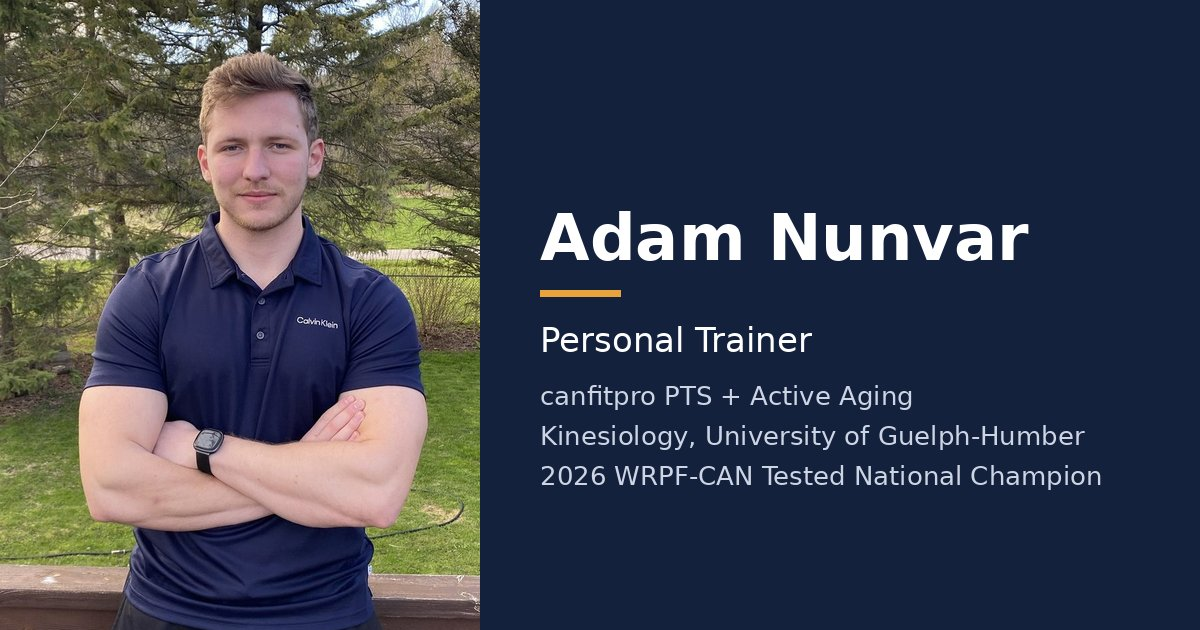
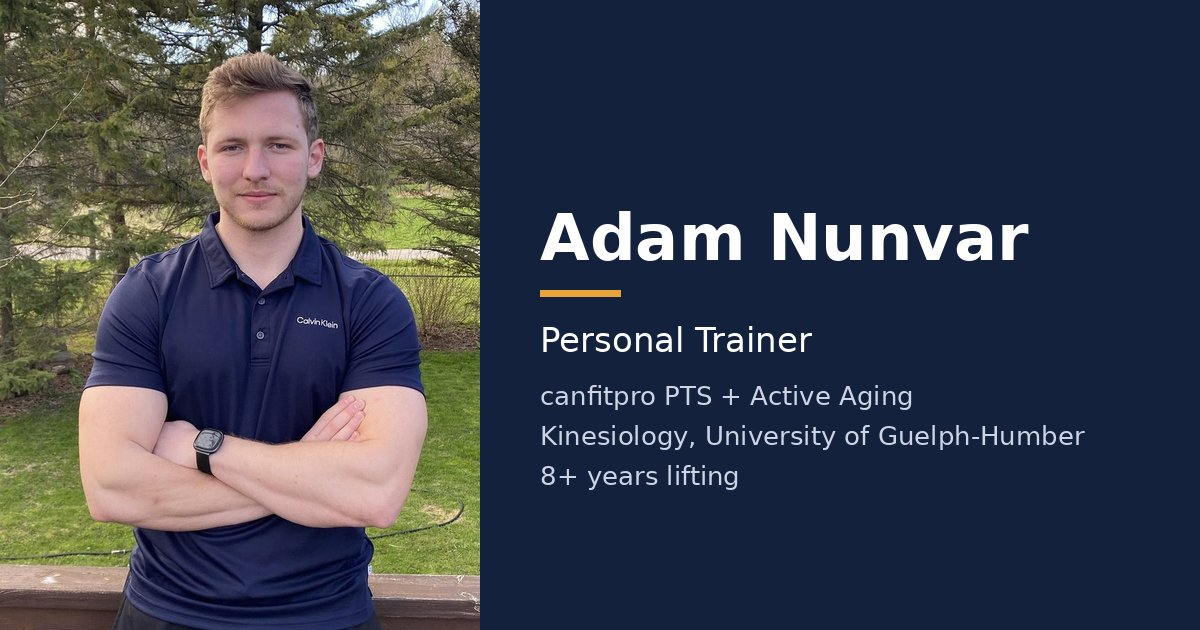
Reframe copy as general personal training; correct lifting history
Lifting 8+ years, powerlifting 2 years. Align 60+ wording.

Claude-Session: https://claude.ai/code/session_01MWZP85Evv5tXJorN7ntLco

Changed region(s): [[0.4317, 0.7238, 0.925, 0.7841]]

diff --git a/index.html b/index.html
@@ -4,12 +4,12 @@
 <meta charset="utf-8">
 <meta name="viewport" content="width=device-width, initial-scale=1">
 <title>Adam Nunvar | Personal Trainer, Etobicoke, Ontario</title>
-<meta name="description" content="Adam Nunvar: canfitpro-certified personal trainer, fourth-year kinesiology student and 2026 WRPF-CAN Tested national powerlifting champion. Resume, credentials, experience and contact.">
+<meta name="description" content="Adam Nunvar: canfitpro-certified personal trainer and fourth-year kinesiology student coaching everyone from first-time gym-goers to adults over 60. Resume, credentials, experience and contact.">
 <link rel="canonical" href="https://adamnunvar.ca/">
 <meta property="og:type" content="website">
 <meta property="og:url" content="https://adamnunvar.ca/">
 <meta property="og:title" content="Adam Nunvar | Personal Trainer">
-<meta property="og:description" content="canfitpro personal trainer, kinesiology student and 2026 WRPF-CAN Tested national powerlifting champion.">
+<meta property="og:description" content="canfitpro-certified personal trainer and kinesiology student. Resume, credentials, experience and contact.">
 <meta property="og:image" content="https://adamnunvar.ca/og.jpg">
 <meta property="og:image:width" content="1200">
 <meta property="og:image:height" content="630">
@@ -106,7 +106,7 @@ footer.site{padding:1.5rem 0 2.5rem;color:var(--muted);font-size:.9rem;border-to
         <img class="photo" src="/adam-nunvar-480.jpg" width="480" height="600" alt="Adam Nunvar, arms crossed, wearing a navy polo">
       </picture>
       <div class="rest">
-    <p class="pitch">Competitive powerlifter and kinesiology student coaching safe, progressive strength training, from first-time gym-goers to adults over 60.</p>
+    <p class="pitch">Kinesiology student and canfitpro-certified trainer helping people build muscle, get stronger and move better, from first-time gym-goers to adults over 60.</p>
     <p class="where">Etobicoke, Ontario</p>
     <div class="btns">
       <a class="btn btn-main" href="/Adam-Nunvar-Resume.pdf" download>Download resume</a>
@@ -115,7 +115,7 @@ footer.site{padding:1.5rem 0 2.5rem;color:var(--muted);font-size:.9rem;border-to
       </div>
     </div>
     <ul class="proof" aria-label="Highlights">
-      <li><strong>National Champion</strong>2026 WRPF-CAN Tested, 90 kg</li>
+      <li><strong>8+ years lifting</strong>2026 national powerlifting champion</li>
       <li><strong>canfitpro certified</strong>PTS + Active Aging</li>
       <li><strong>96% attendance</strong>across 96 one-on-one sessions</li>
       <li><strong>93.71% average</strong>in kinesiology</li>
@@ -127,8 +127,8 @@ footer.site{padding:1.5rem 0 2.5rem;color:var(--muted);font-size:.9rem;border-to
 <section id="about">
   <div class="wrap">
     <h2>About</h2>
-    <p>I'm a fourth-year kinesiology student at the University of Guelph-Humber and a canfitpro Personal Training Specialist. I train one-on-one clients and lead bootcamp, Hyrox and functional classes at Humber Athletics. I've also coached at 9Round Fitness, assisted with exercise rehab at a physiotherapy clinic, and run strength classes for adults 60+.</p>
-    <p>I've been powerlifting for 8 years and won the 2026 WRPF-CAN Tested national title at 90 kg, so I know what it takes to get strong, and how to coach it safely. I speak English and Czech.</p>
+    <p>I'm a fourth-year kinesiology student at the University of Guelph-Humber and a canfitpro Personal Training Specialist. I train one-on-one clients and lead bootcamp, Hyrox and functional classes at Humber Athletics. I've also coached at 9Round Fitness, assisted with exercise rehab at a physiotherapy clinic, and run functional fitness classes for adults 60+.</p>
+    <p>I've been lifting for over 8 years, and I use what I learn in anatomy, physiology and biomechanics on the floor every day: correcting form, fixing imbalances and helping clients build muscle, get stronger and move better, whatever their goal. I speak English and Czech.</p>
   </div>
 </section>
 
@@ -193,10 +193,10 @@ footer.site{padding:1.5rem 0 2.5rem;color:var(--muted);font-size:.9rem;border-to
       </ul>
     </article>
     <article class="job">
-      <h3>Strength athlete</h3>
+      <h3>My own training</h3>
       <ul>
-        <li>2026 WRPF-CAN Tested National Champion, 90 kg (Junior and Open)</li>
-        <li>600 kg raw total · Humber powerlifting team · 8 years of training</li>
+        <li>Lifting for 8+ years; competing in powerlifting for 2</li>
+        <li>2026 WRPF-CAN Tested National Champion, 90 kg (Junior and Open) · 600 kg raw total · Humber powerlifting team</li>
       </ul>
     </article>
   </div>
@@ -209,7 +209,7 @@ footer.site{padding:1.5rem 0 2.5rem;color:var(--muted);font-size:.9rem;border-to
       <li><strong>Assess first.</strong> Every client starts with a consultation and screening, so the plan fits their goals, history and limits.</li>
       <li><strong>Technique before load.</strong> Clean form first, then we progress. That comes straight from my biomechanics and physio clinic training.</li>
       <li><strong>Progress you can see.</strong> I log every session, so we both know exactly what's improving.</li>
-      <li><strong>Meet people where they are.</strong> First-timer or 65+, same principles, scaled to the person.</li>
+      <li><strong>Meet people where they are.</strong> First-timer or 60+, same principles, scaled to the person.</li>
     </ol>
   </div>
 </section>
